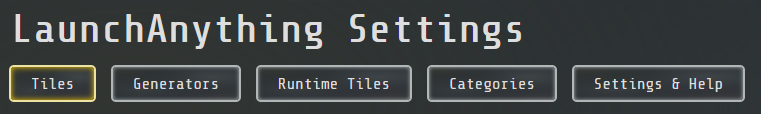
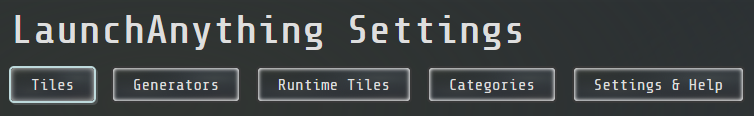
Redesigned settings navigation items.

Changed region(s): [[0.0, 0.5526, 1.0, 0.9211], [0.0, 0.1053, 0.4271, 0.4474], [0.4576, 0.1053, 0.7016, 0.4474]]

diff --git a/launch-anything-application/src/main/resources/web/settings.html b/launch-anything-application/src/main/resources/web/settings.html
@@ -54,7 +54,7 @@
             padding: calc(var(--glass-bar-padding-vertical) / 2) var(--glass-bar-padding-horizontal);
             margin-right: 10px;
             border-radius: 3px;
-            box-shadow: 0 0 0 2px #B1B6B7, inset 0 0 3px 0 #B1B6B7;
+            box-shadow: 0 0 0 2px #383838,  0 0 0 0 rgba(153, 192, 192, 0.32), inset 0 0 3px 1px #ffffff;
             background: radial-gradient(at 88% 100%, hsl(220, 3%, 23%) 0, transparent 42%),
             radial-gradient(at 9% 12%, hsl(135, 4%, 20%) 0, transparent 47%),
             radial-gradient(at 24% 68%, hsla(193, 5%, 23%, 1) 0, transparent 49%),
@@ -67,7 +67,7 @@
         }
 
         .glass-bar-small.selected {
-            box-shadow: 0 0 0 2px #ece2a2, inset 0 0 5px 0 #ffcc00;
+            box-shadow: 0 0 0 2px #bedadc, 2px 2px 0 2px rgba(100, 105, 105, 0.55), inset 0 0 5px 0 #d3d3d1;
         }
 
         .clickable {
